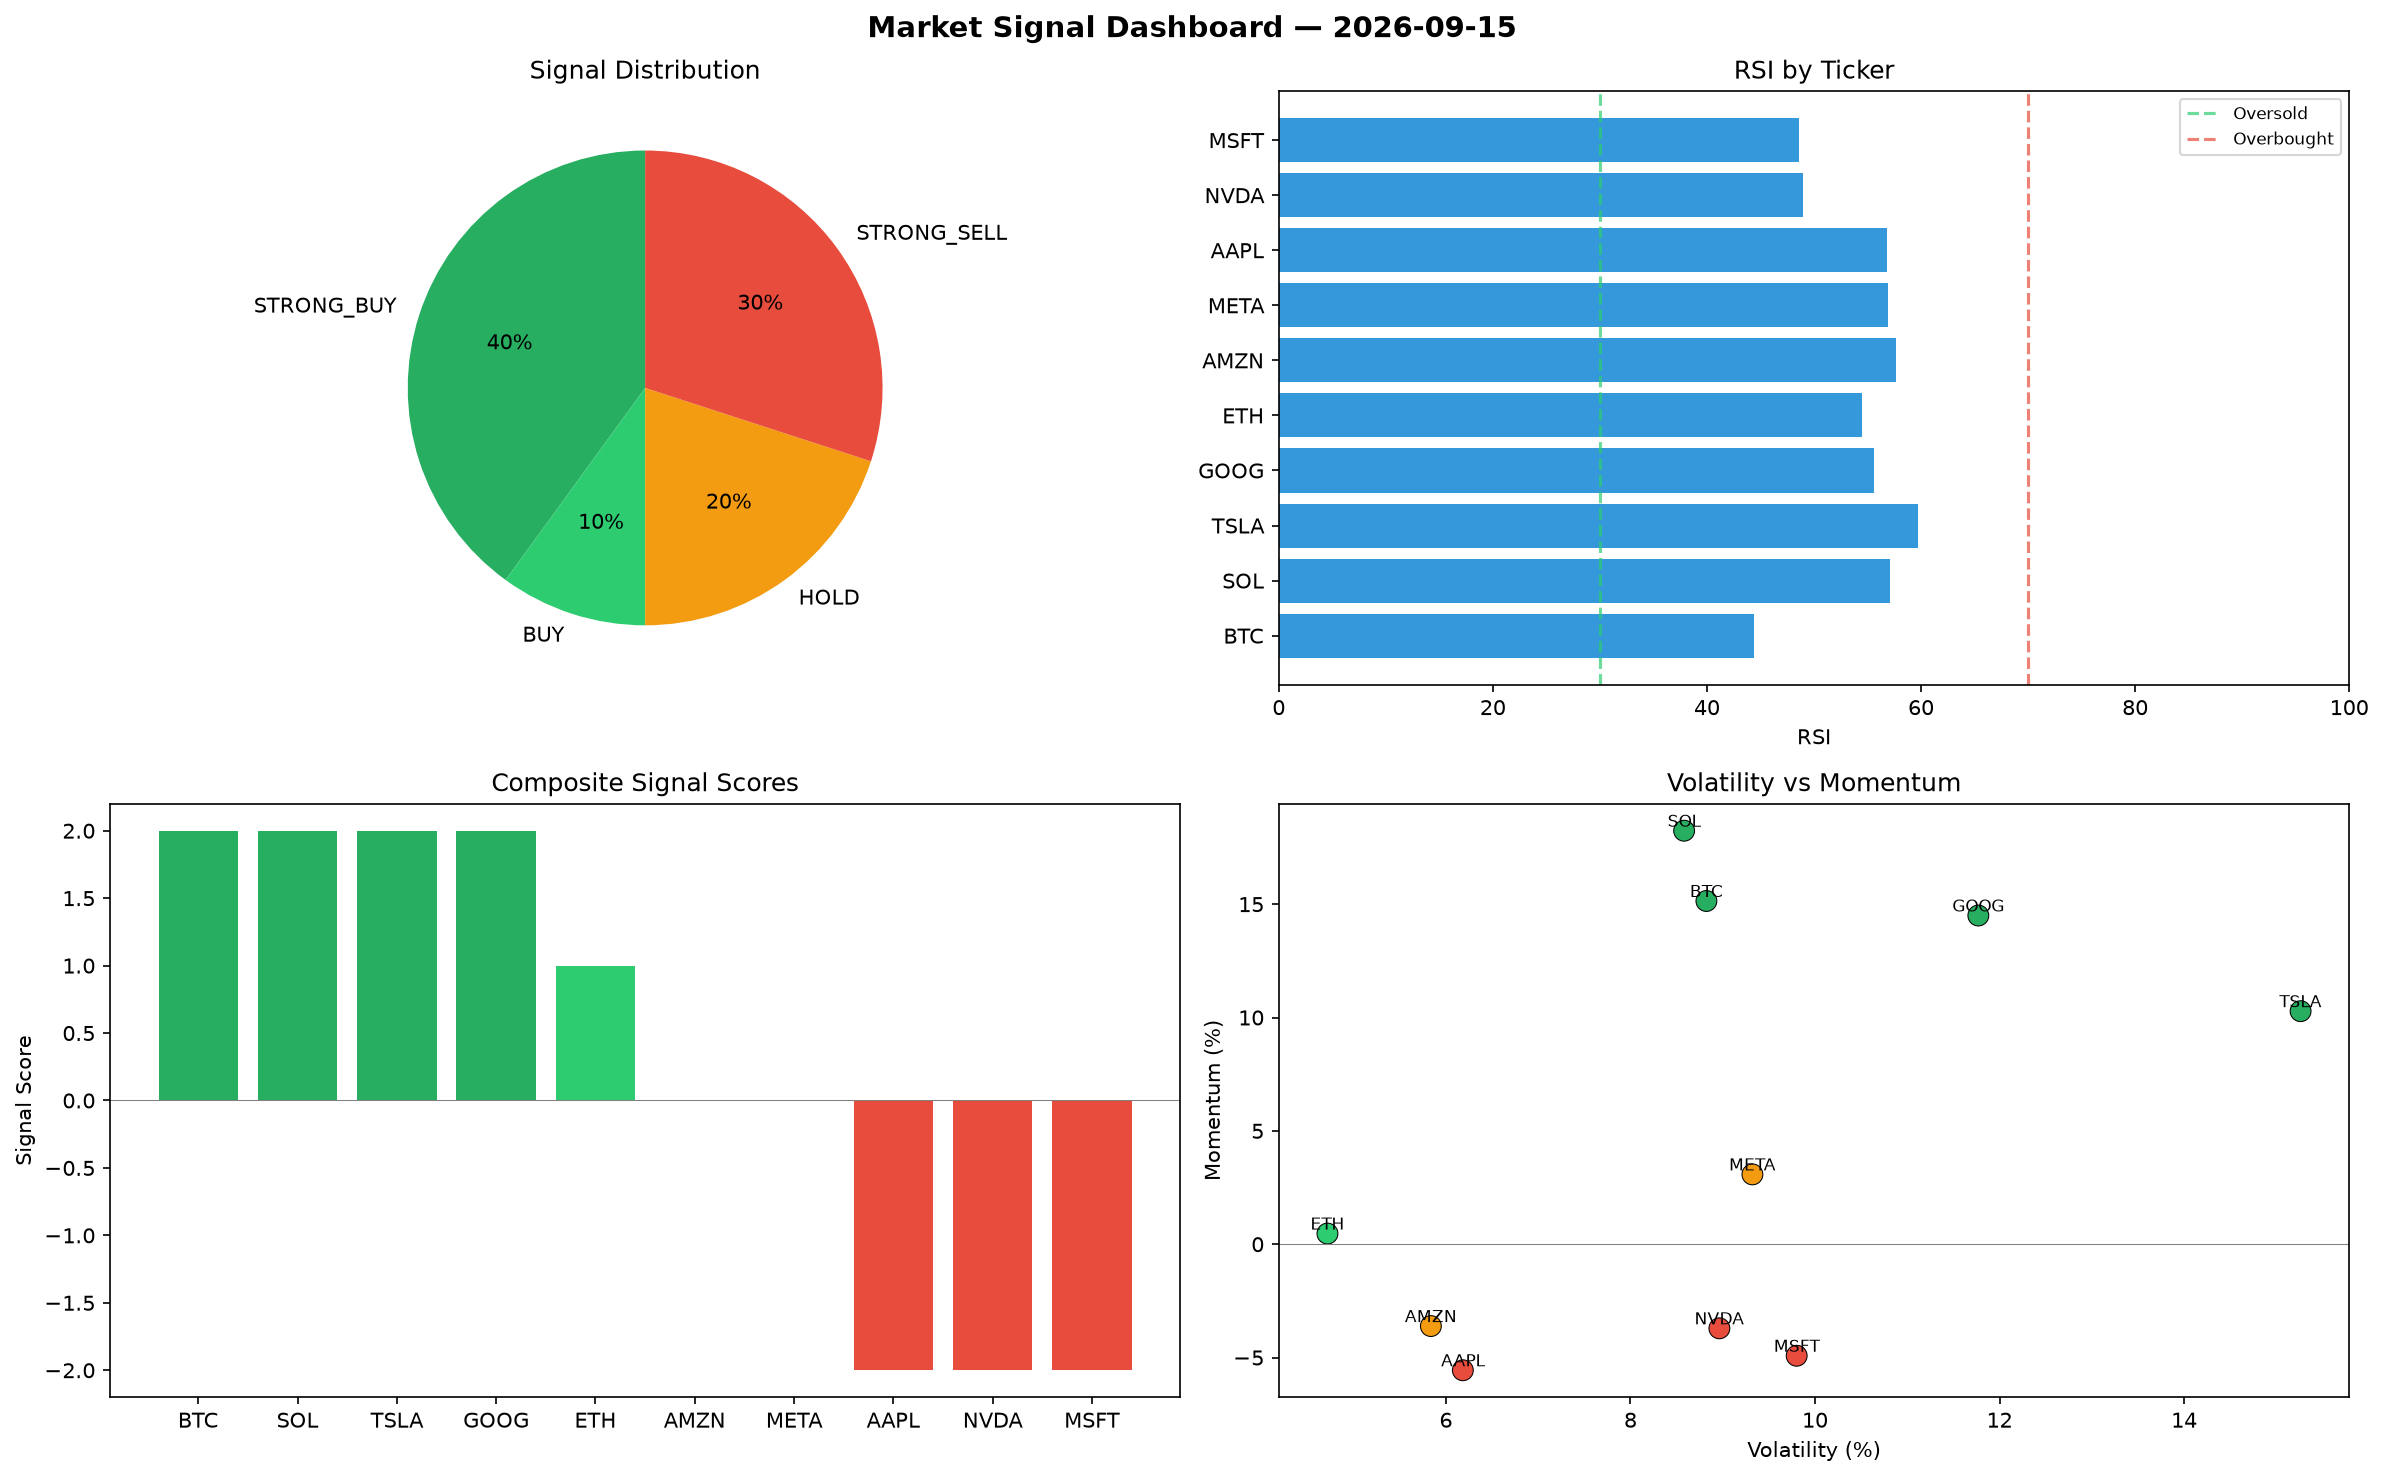
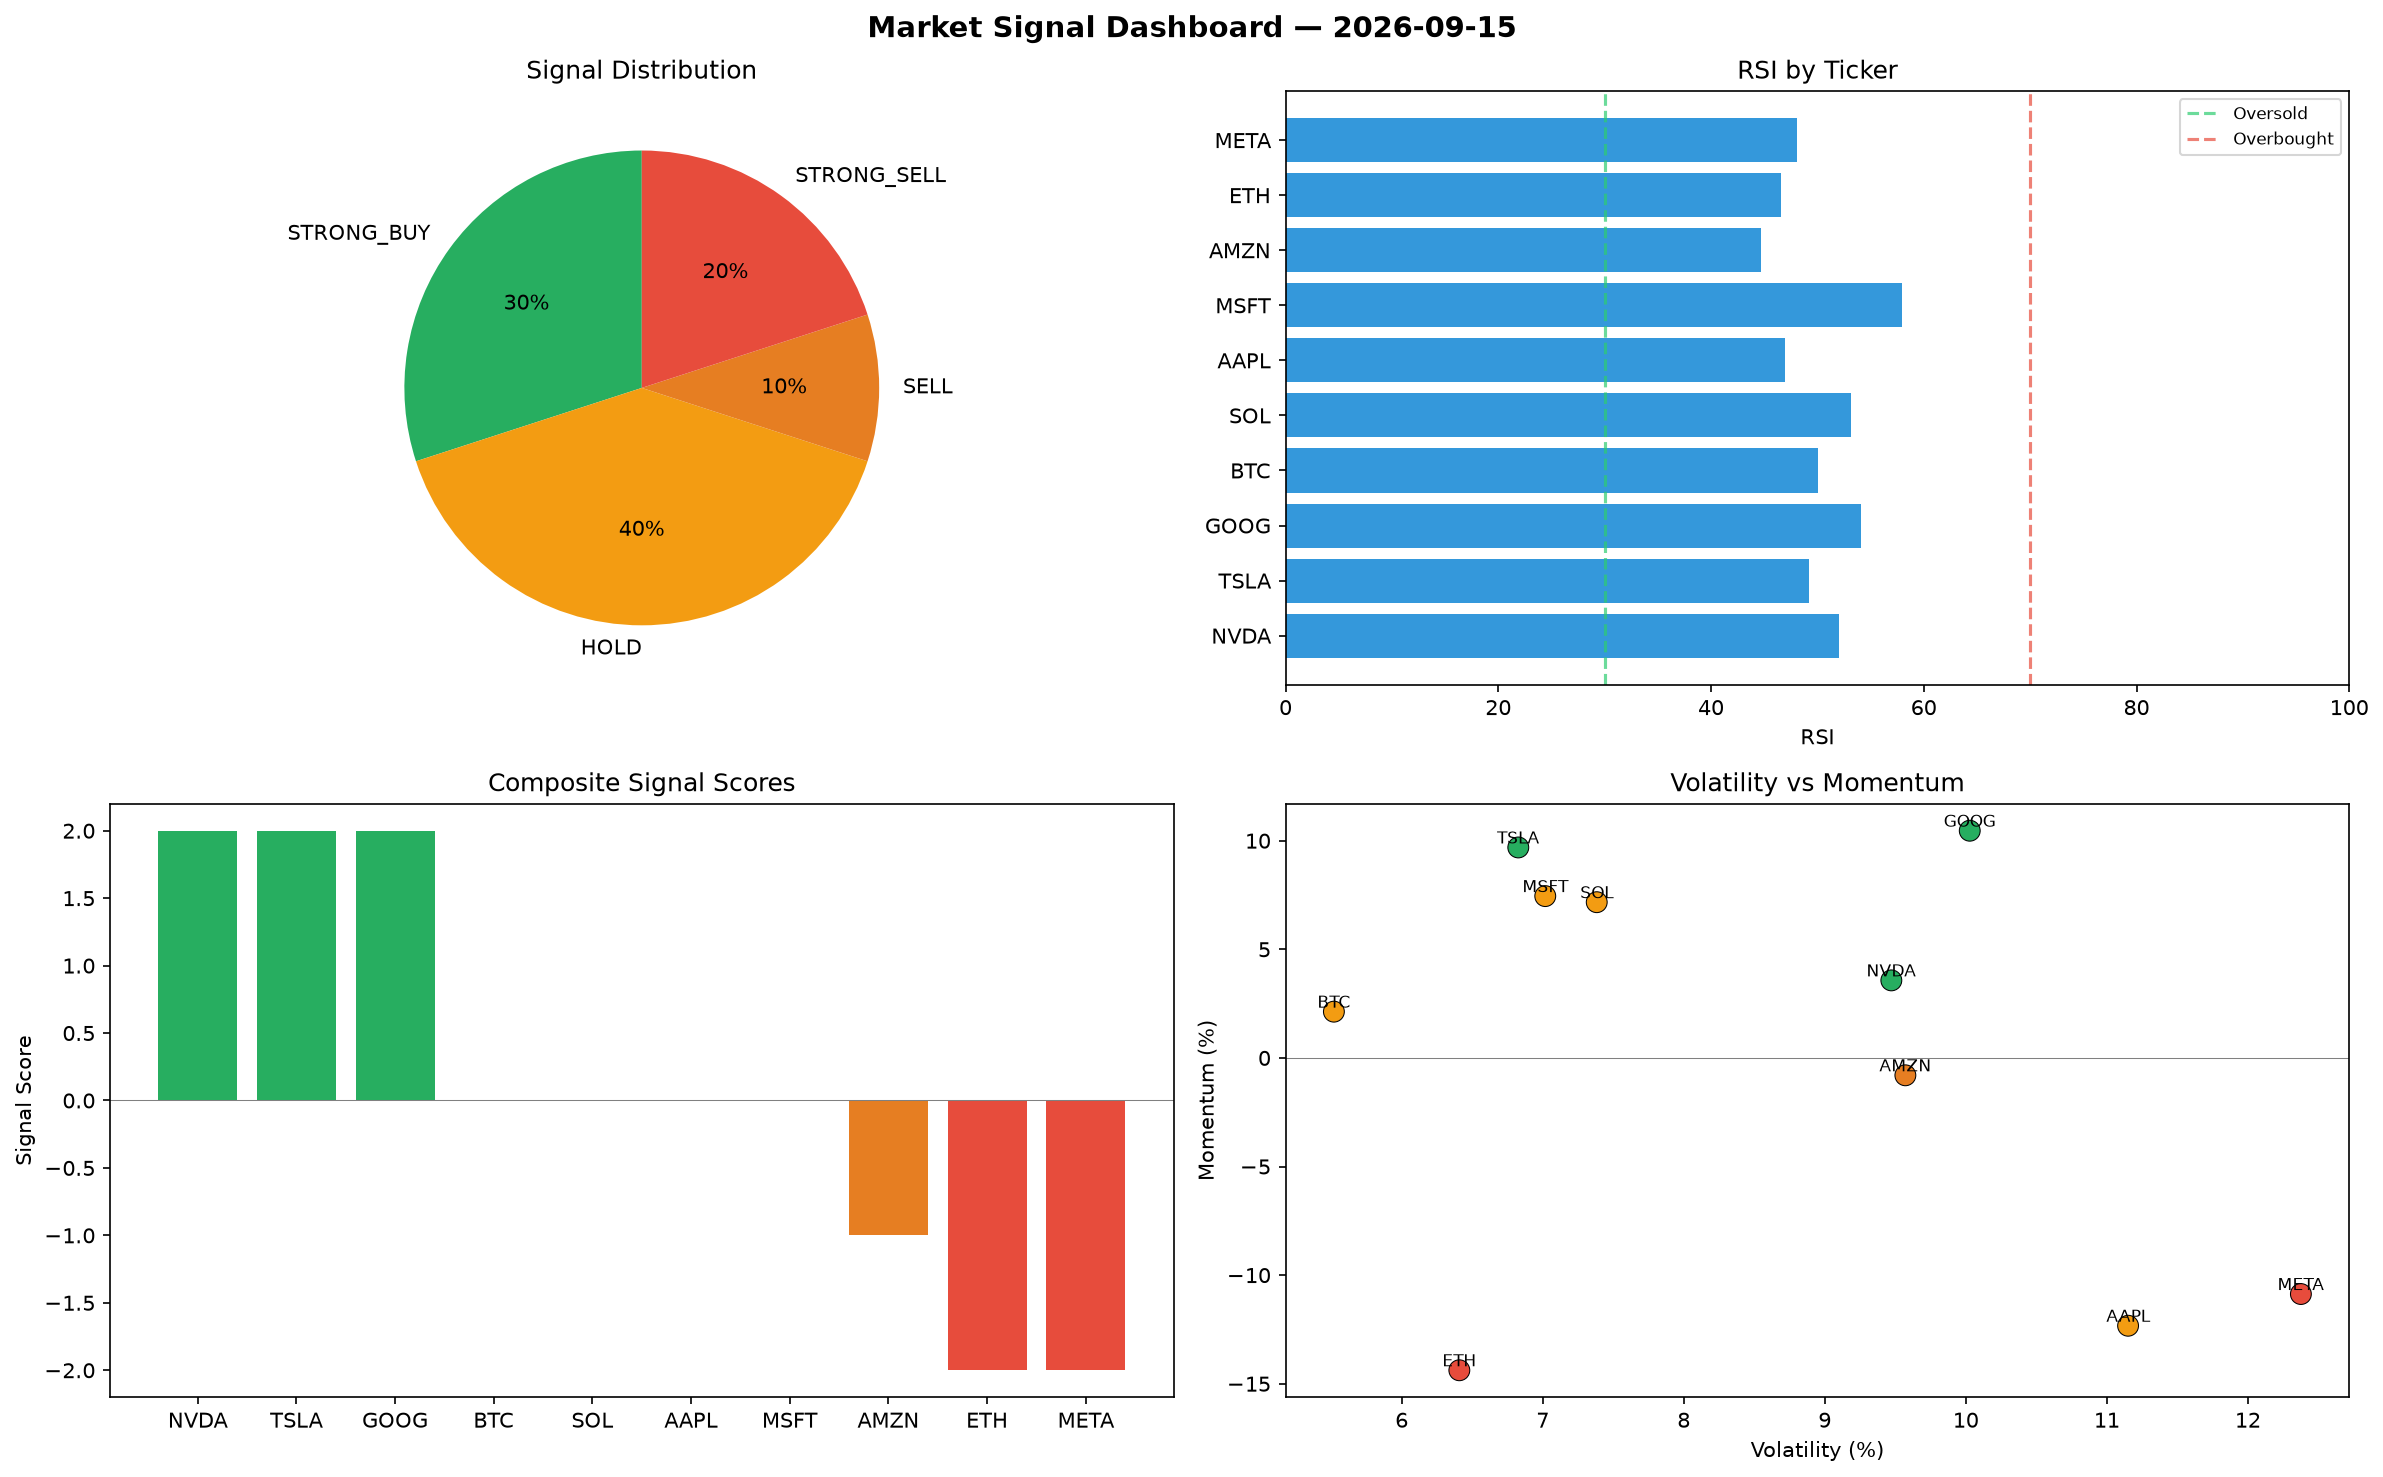
automated-bots: market signals 2026-09-15T18:23

diff --git a/logs/2026-09-15.md b/logs/2026-09-15.md
@@ -1,6 +1,6 @@
 # Market Signal Report — 2026-09-15
 
-**Run ID:** `37b17e624c` | **Buy:** 5 | **Sell:** 3 | **Hold:** 2
+**Run ID:** `d1d7387c15` | **Buy:** 3 | **Sell:** 3 | **Hold:** 4
 
 ![Dashboard](2026-09-15_dashboard.png)
 
@@ -8,28 +8,28 @@
 
 | Ticker | Price | Signal | Score | RSI | Momentum | Confidence |
 |--------|-------|--------|-------|-----|----------|------------|
-| BTC | $480.06 | **STRONG_BUY** | 2 | 44.4 | 0.1514 | 0.5 |
-| SOL | $2847.65 | **STRONG_BUY** | 2 | 57.08 | 0.1824 | 0.5 |
-| TSLA | $1802.9 | **STRONG_BUY** | 2 | 59.68 | 0.1028 | 0.5 |
-| GOOG | $976.75 | **STRONG_BUY** | 2 | 55.62 | 0.145 | 0.5 |
-| ETH | $2046.37 | **BUY** | 1 | 54.45 | 0.0047 | 0.25 |
-| AMZN | $4140.77 | **HOLD** | 0 | 57.66 | -0.0361 | 0.0 |
-| META | $860.79 | **HOLD** | 0 | 56.9 | 0.0308 | 0.0 |
-| AAPL | $504.63 | **STRONG_SELL** | -2 | 56.81 | -0.0556 | 0.5 |
-| NVDA | $1868.48 | **STRONG_SELL** | -2 | 49.01 | -0.0371 | 0.5 |
-| MSFT | $4951.72 | **STRONG_SELL** | -2 | 48.61 | -0.0492 | 0.5 |
+| NVDA | $889.19 | **STRONG_BUY** | 2 | 52.07 | 0.0357 | 0.5 |
+| TSLA | $3638.89 | **STRONG_BUY** | 2 | 49.19 | 0.0969 | 0.5 |
+| GOOG | $680.79 | **STRONG_BUY** | 2 | 54.09 | 0.1046 | 0.5 |
+| BTC | $1598.36 | **HOLD** | 0 | 50.08 | 0.0213 | 0.0 |
+| SOL | $535.72 | **HOLD** | 0 | 53.15 | 0.0717 | 0.0 |
+| AAPL | $3129.62 | **HOLD** | 0 | 46.96 | -0.1233 | 0.0 |
+| MSFT | $2930.81 | **HOLD** | 0 | 57.99 | 0.0745 | 0.0 |
+| AMZN | $2871.14 | **SELL** | -1 | 44.66 | -0.008 | 0.25 |
+| ETH | $1628.18 | **STRONG_SELL** | -2 | 46.56 | -0.1438 | 0.5 |
+| META | $4010.94 | **STRONG_SELL** | -2 | 48.05 | -0.1087 | 0.5 |
 
 ## Delta vs Yesterday
 
 | Ticker | Today | Yesterday | Price Change | Signal Changed |
 |--------|-------|-----------|-------------|----------------|
-| BTC | STRONG_BUY | HOLD | 📉 -66.48% | ⚠ YES |
-| SOL | STRONG_BUY | HOLD | 📉 -12.79% | ⚠ YES |
-| TSLA | STRONG_BUY | STRONG_BUY | 📉 -52.82% | — |
-| GOOG | STRONG_BUY | HOLD | 📉 -66.6% | ⚠ YES |
-| ETH | BUY | STRONG_BUY | 📉 -52.26% | ⚠ YES |
-| AMZN | HOLD | STRONG_BUY | 📉 -5.4% | ⚠ YES |
-| META | HOLD | SELL | 📉 -81.53% | ⚠ YES |
-| AAPL | STRONG_SELL | HOLD | 📉 -89.96% | ⚠ YES |
-| NVDA | STRONG_SELL | HOLD | 📈 18.04% | ⚠ YES |
-| MSFT | STRONG_SELL | STRONG_SELL | 📈 10.89% | — |
+| NVDA | STRONG_BUY | HOLD | 📉 -43.83% | ⚠ YES |
+| TSLA | STRONG_BUY | STRONG_BUY | 📉 -4.77% | — |
+| GOOG | STRONG_BUY | HOLD | 📉 -76.72% | ⚠ YES |
+| BTC | HOLD | HOLD | 📈 11.62% | — |
+| SOL | HOLD | HOLD | 📉 -83.59% | — |
+| AAPL | HOLD | HOLD | 📉 -37.72% | — |
+| MSFT | HOLD | STRONG_SELL | 📉 -34.36% | ⚠ YES |
+| AMZN | SELL | STRONG_BUY | 📉 -34.4% | ⚠ YES |
+| ETH | STRONG_SELL | STRONG_BUY | 📉 -62.02% | ⚠ YES |
+| META | STRONG_SELL | SELL | 📉 -13.93% | ⚠ YES |
